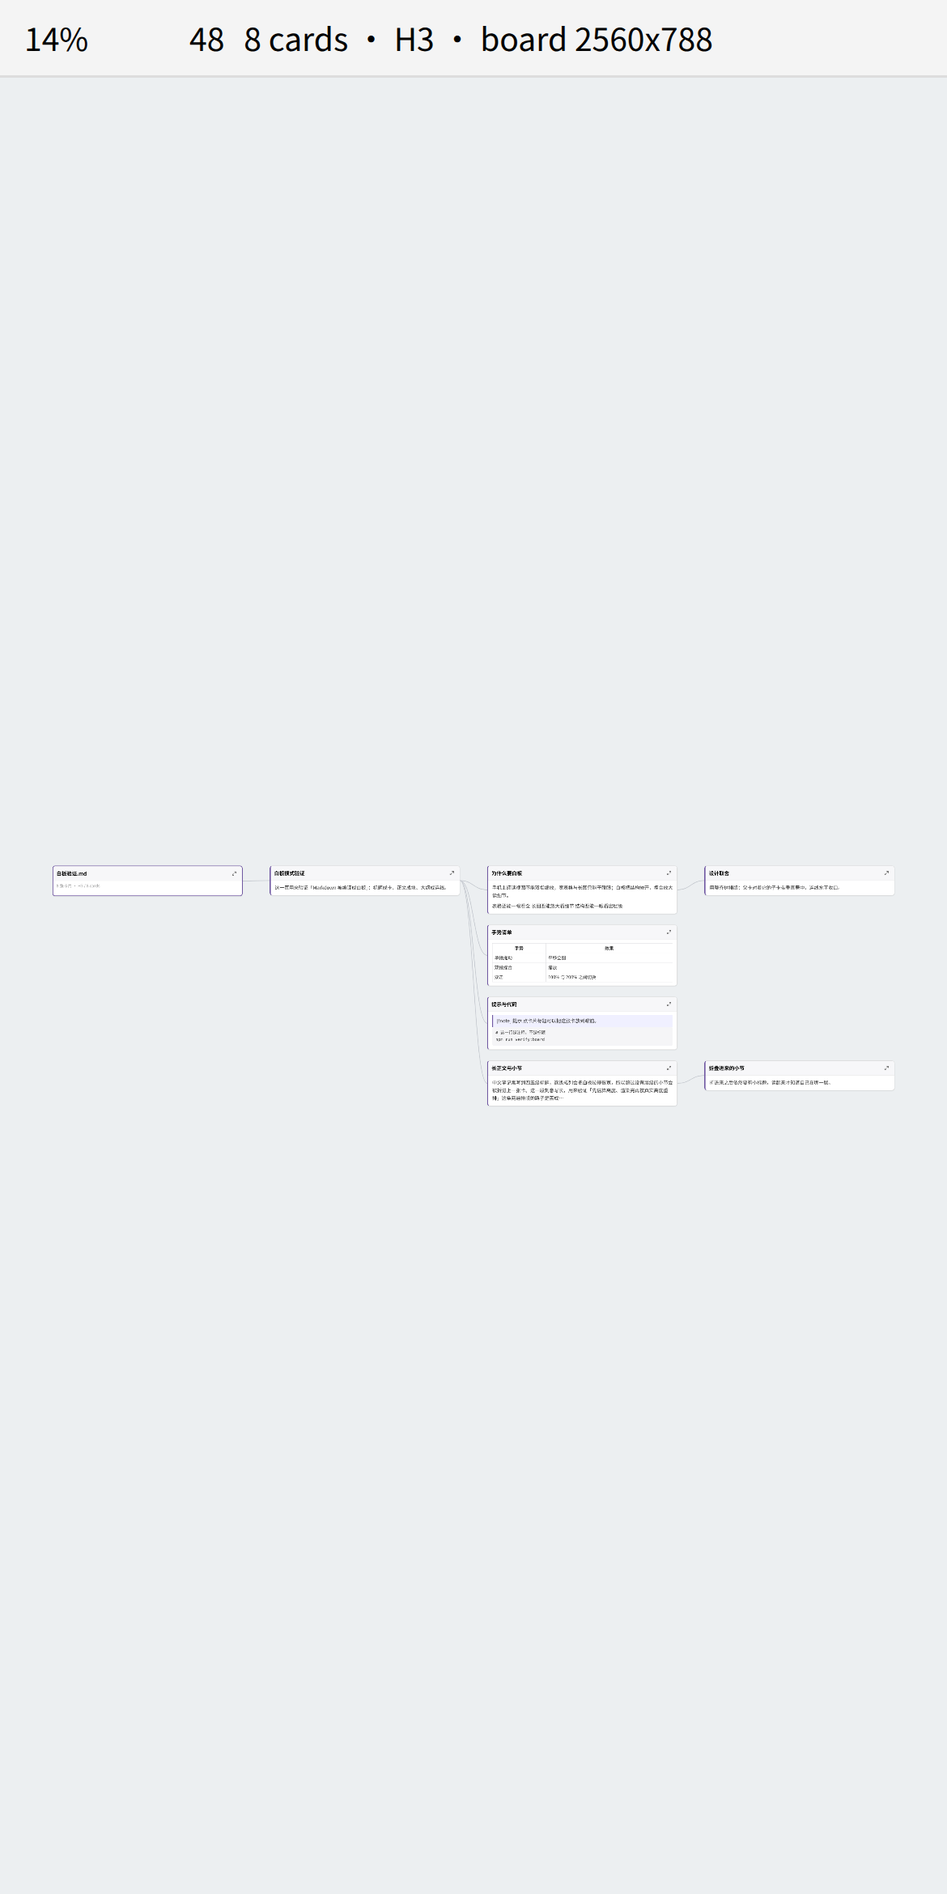
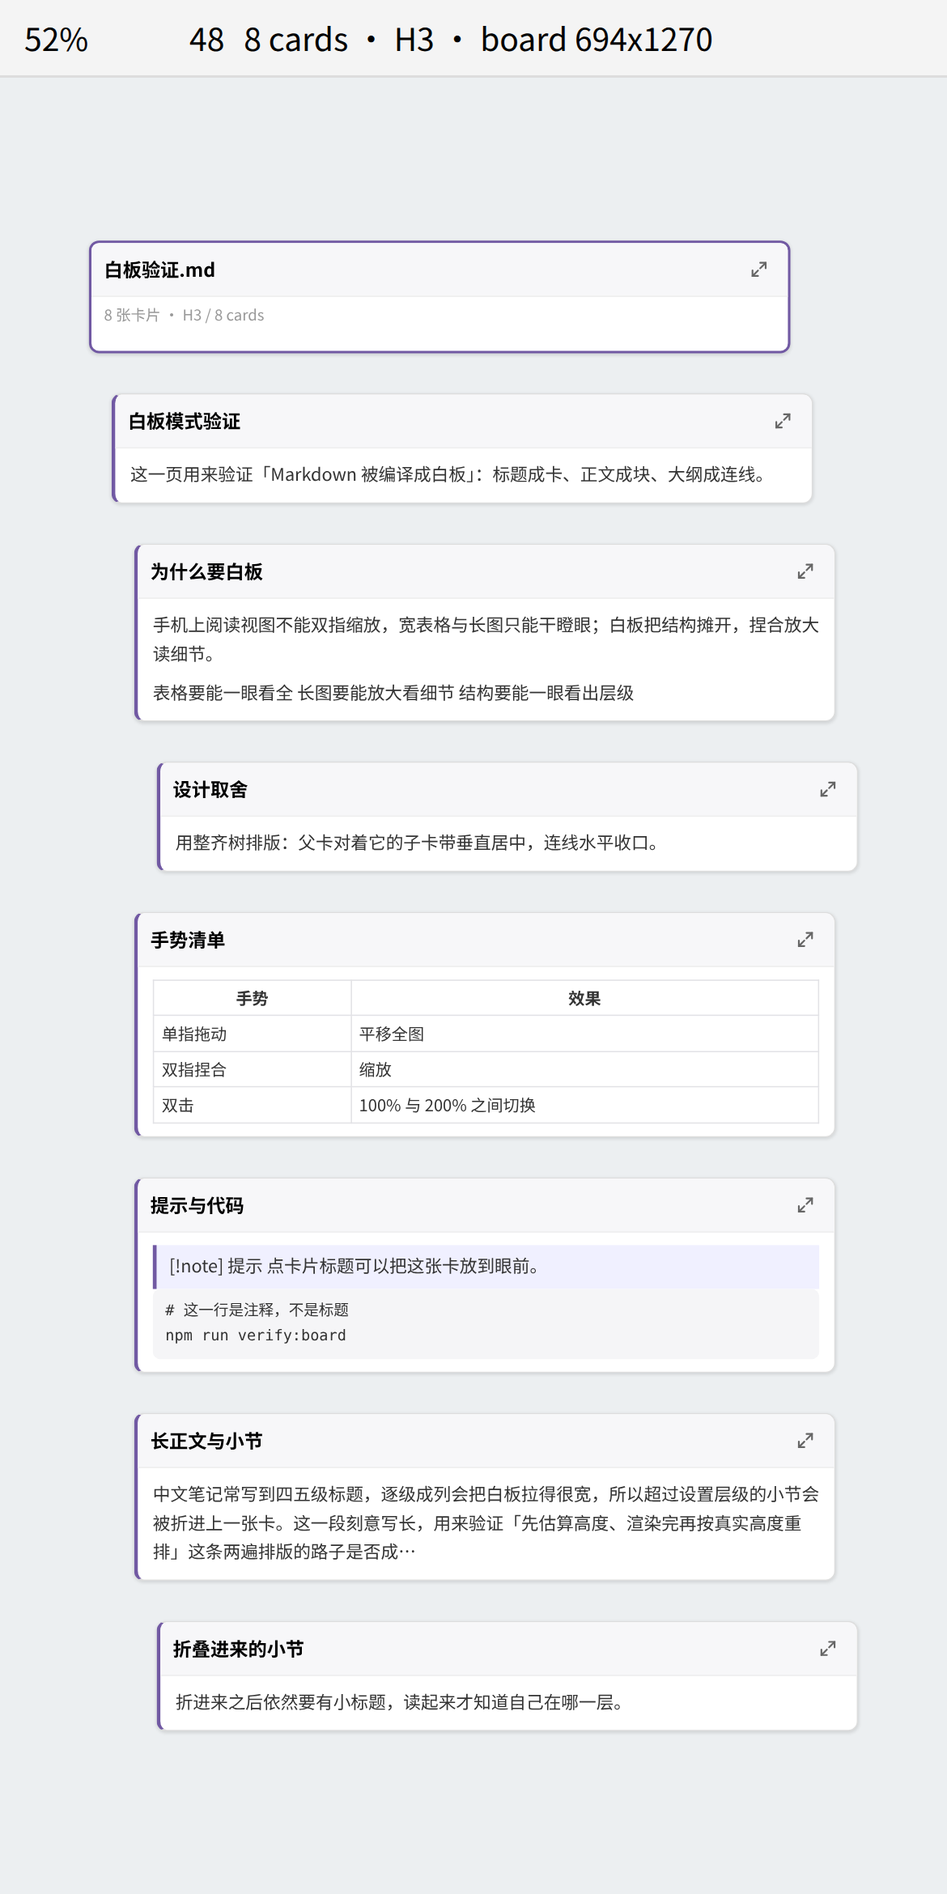
1.3.3：白板两种排版，默认「单栏纵向流」——往下滑就是往下读
用户反馈：「为啥不是一个白板上下滑动的呢？为啥做成卡片呀？就类似于阅读的时候，直接往下滑动就好了。」

- 新增「白板排版」设置（默认 flow）：
  · 单栏纵向流：一张 A5 宽（148mm）的纸一列到底，按文档顺序自上而下叠；
    层级用最多 3 级缩进 + 卡片左侧色条表达；往下滑就是往下读，不用横着找内容。
  · 分支树：原来的标题成列成卡 + 连线大纲，留着给「一眼看全局」。
- 工具条加排版一键切换按钮；连线只在分支树里画（一列里画线只会互相压住）。
- 排版层新增 layoutBoardFlow / layoutBoardByMode（纯函数，可单测）。

验证：98 单测 / verify:board 48 / verify:gestures 74 / verify:labels 9 / verify:layout 全过，
npm run check 退出码 0。verify:board 新增：出厂默认排版确为 flow（读真实设置数据）、
同一纸张宽度且 y 随文档顺序严格递增、纵向流 0 条连线、
**只往下滑就能读到最后一节**（末卡进入视口）、切到分支树连线断言全开、切回即消失。

diff --git a/src/settings-spec.ts b/src/settings-spec.ts
@@ -12,6 +12,8 @@
  * ========================================================================== */
 
 export type ReaderMode = "page" | "board";
+/** 白板排版：flow = 单栏纵向流（一张 A5 纸，上下滑着读）；tree = 分支树（横着看全局）。 */
+export type BoardLayoutMode = "flow" | "tree";
 export type ZoomButtonCorner = "top-left" | "top-right";
 
 export interface ZoomableReaderSettings {
@@ -44,6 +46,8 @@ export interface ZoomableReaderSettings {
   boardConnectors: boolean;
   /** 卡片数量上限：超过就自动折得更深，保证手机上不卡 */
   boardMaxCards: number;
+  /** 白板排版：单栏纵向流（默认）还是分支树 */
+  boardLayout: BoardLayoutMode;
 
   /* --- 图片与图表查看器 / Image & diagram viewer --- */
   imageViewer: boolean;
@@ -105,6 +109,8 @@ export const DEFAULT_SETTINGS: ZoomableReaderSettings = {
   boardGap: 32,
   boardConnectors: true,
   boardMaxCards: 120,
+  /* 默认单栏纵向流：白板是拿来【读】的 —— 往下滑就是往下读，不用横着找内容（手机尤其需要）。 */
+  boardLayout: "flow",
   imageViewer: true,
   diagramViewer: true,
   lightboxFitOnOpen: true,
@@ -156,7 +162,7 @@ export interface SettingSliderSpec extends SettingSpecBase {
 
 export interface SettingDropdownSpec extends SettingSpecBase {
   control: "dropdown";
-  key: "defaultMode" | "zoomButtonCorner";
+  key: "defaultMode" | "zoomButtonCorner" | "boardLayout";
   options: Record<string, string>;
 }
 
@@ -309,6 +315,20 @@ export const SETTINGS_GROUPS: SettingsGroupSpec[] = [
     enIntro: "Whiteboard compiles a note into a card canvas: every heading is a card holding that section's content, and connectors draw the outline. Cards default to A5 paper (148mm) and open at natural size; the board is recompiled every time you enter it and follows the note as you edit (read-only, nothing is written).",
     items: [
       {
+        control: "dropdown",
+        id: "board-layout",
+        key: "boardLayout",
+        options: {
+          flow: "单栏纵向流（上下滑动读）/ Single column (scroll down)",
+          tree: "分支树（横向看全局）/ Branch tree (explore sideways)",
+        },
+        zh: "白板排版",
+        en: "Board layout",
+        zhDesc: "单栏纵向流：一张 A5 纸从上往下读，往下滑就是往下读（默认，手机推荐）。分支树：标题成列成卡、连线成大纲，一眼看全局但要横向找内容。",
+        enDesc: "Single column reads top to bottom like paper (default, best on a phone). Branch tree lays headings out in columns with connectors, showing the whole outline at a glance but requiring sideways panning.",
+        aliases: ["排版", "布局", "纵向", "单栏", "滑动", "滚动", "树", "layout", "column", "scroll", "vertical", "tree", "flow"],
+      },
+      {
         control: "slider",
         id: "board-card-width",
         key: "boardCardWidth",
@@ -356,8 +376,8 @@ export const SETTINGS_GROUPS: SettingsGroupSpec[] = [
         key: "boardConnectors",
         zh: "显示连线",
         en: "Show connectors",
-        zhDesc: "画出父卡到子卡的贝塞尔连线，一眼看出大纲结构。",
-        enDesc: "Draws curved connectors from a parent card to its children.",
+        zhDesc: "分支树排版下画出父卡到子卡的连线（单栏纵向流靠缩进与左侧色条表达层级，不画线）。",
+        enDesc: "In branch-tree layout, draws curved connectors from a parent card to its children. The single-column layout shows hierarchy with indentation instead.",
         aliases: ["连线", "连接", "线", "connector", "edge", "line"],
       },
       {

diff --git a/tests/board-layout.test.ts b/tests/board-layout.test.ts
@@ -2,9 +2,13 @@ import { describe, expect, it } from "vitest";
 import { parseBoard } from "../src/board-model";
 import {
   DEFAULT_BOARD_LAYOUT,
+  FLOW_INDENT_STEP,
+  FLOW_MAX_INDENT_DEPTH,
   cardAt,
   estimateCardHeight,
   layoutBoard,
+  layoutBoardByMode,
+  layoutBoardFlow,
   linkPath,
   type BoardCard,
 } from "../src/board-layout";
@@ -157,5 +161,67 @@ describe("linkPath / cardAt", () => {
     const card = layout.byId["n2"];
     expect(cardAt(layout, card.x + 5, card.y + 5)?.id).toBe("n2");
     expect(cardAt(layout, card.x - 20, card.y - 20)).toBeNull();
+  });
+});
+describe("layoutBoardFlow：单栏纵向流（一张 A5 纸，往下滑就是往下读）", () => {
+  const layout = layoutBoardFlow(doc, { cardWidth: 560, gapY: 32, padding: 40 });
+
+  it("所有卡片同宽（就是纸张宽度），一列到底", () => {
+    for (const card of layout.cards) expect(card.width).toBe(560);
+  });
+
+  it("y 随【文档顺序】严格递增：往下滑就是往下读", () => {
+    for (let i = 1; i < layout.cards.length; i += 1) {
+      const prev = layout.cards[i - 1];
+      expect(layout.cards[i].y).toBeGreaterThanOrEqual(prev.y + prev.height);
+    }
+    /* 顺序也必须与模型的前序（= 文档顺序）一致 */
+    expect(layout.cards.map((c) => c.id)).toEqual(doc.nodes.map((n) => n.id));
+  });
+
+  it("层级用缩进表达，且缩进到第 3 级就封顶（纸再窄就不是纸了）", () => {
+    for (const card of doc.nodes) {
+      const rect = layout.byId[card.id];
+      expect(rect.x).toBe(40 + Math.min(card.depth, FLOW_MAX_INDENT_DEPTH) * FLOW_INDENT_STEP);
+    }
+    const deep = layout.cards.filter((c) => c.depth >= FLOW_MAX_INDENT_DEPTH).map((c) => c.x);
+    expect(new Set(deep).size).toBe(1);
+  });
+
+  it("一列里不画连线（靠缩进与左侧色条表达层级，画线只会互相压住）", () => {
+    expect(layout.links).toHaveLength(0);
+  });
+
+  it("卡片两两不重叠，且板子边界包住全部卡片", () => {
+    for (let i = 0; i < layout.cards.length; i += 1) {
+      for (let j = i + 1; j < layout.cards.length; j += 1) {
+        expect(overlaps(layout.cards[i], layout.cards[j])).toBe(false);
+      }
+      expect(layout.cards[i].x + layout.cards[i].width).toBeLessThanOrEqual(layout.width);
+      expect(layout.cards[i].y + layout.cards[i].height).toBeLessThanOrEqual(layout.height);
+    }
+  });
+
+  it("宽度 = 留白×2 + 最大缩进 + 纸张宽度（不会随内容横着长）", () => {
+    const maxIndent = Math.min(3, FLOW_MAX_INDENT_DEPTH) * FLOW_INDENT_STEP;
+    expect(layout.width).toBe(40 * 2 + maxIndent + 560);
+  });
+
+  it("实测高度优先（第二遍按真实 DOM 高度重排）", () => {
+    const tall = layoutBoardFlow(doc, { heights: { n1: 900 } });
+    expect(tall.byId["n1"].height).toBe(900);
+    expect(tall.height).toBeGreaterThan(layout.height);
+  });
+
+  it("空文档（只有根卡）也能排，不出现 NaN", () => {
+    const empty = layoutBoardFlow(parseBoard("", { title: "空" }), {});
+    expect(empty.cards).toHaveLength(1);
+    expect(Number.isFinite(empty.width)).toBe(true);
+    expect(Number.isFinite(empty.height)).toBe(true);
+  });
+
+  it("layoutBoardByMode 分发正确（默认流的入口）", () => {
+    expect(layoutBoardByMode(doc, "flow", { cardWidth: 560 }).links).toHaveLength(0);
+    expect(layoutBoardByMode(doc, "tree", { cardWidth: 560 }).links.length).toBeGreaterThan(0);
   });
 });

diff --git a/src/board-layout.ts b/src/board-layout.ts
@@ -63,6 +63,13 @@ export const DEFAULT_BOARD_LAYOUT: Omit<BoardLayoutOptions, "heights"> = {
   padding: 40,
 };
 
+/** 纵向流里每深一级缩进多少（px）。缩进到第 3 级就不再往里缩了：A5 纸再窄就不是纸了。 */
+export const FLOW_INDENT_STEP = 18;
+export const FLOW_MAX_INDENT_DEPTH = 3;
+
+/** 白板的两种排版：单栏纵向流（读文档）/ 分支树（看全局）。 */
+export type BoardLayoutMode = "flow" | "tree";
+
 /** 估高参数：只求「八九不离十」，真实高度由渲染后的第二遍量出来。 */
 const METRICS = {
   /** 卡片头部（标题 + 上下内边距） */
@@ -219,6 +226,59 @@ export function layoutBoard(doc: BoardDoc, options: Partial<BoardLayoutOptions> 
 
 function round1(value: number): number {
   return Math.round(value * 10) / 10;
+}
+
+/**
+ * 单栏纵向流：一张 A5 宽的纸，按【文档顺序】自上而下叠成一列。
+ *
+ * 这是给「读」用的排版：往下滑就是往下读，不需要横向找内容（手机尤其需要）。
+ * 层级用缩进 + 卡片左侧色条表达，所以这里不画连线 —— 一行一列里画线只会互相压住。
+ * 原文档顺序就是 doc.nodes 的顺序（前序遍历），所以 y 一定随文档单调递增。
+ */
+export function layoutBoardFlow(doc: BoardDoc, options: Partial<BoardLayoutOptions> = {}): BoardLayout {
+  const opts: BoardLayoutOptions = Object.assign({}, DEFAULT_BOARD_LAYOUT, options);
+  const cardWidth = Math.max(160, opts.cardWidth);
+
+  const cards: BoardCard[] = [];
+  const byId: Record<string, BoardCard> = {};
+  let y = opts.padding;
+  let indentMax = 0;
+
+  for (const node of doc.nodes) {
+    const measured = opts.heights ? opts.heights[node.id] : undefined;
+    const height = typeof measured === "number" && measured > 0 ? measured : estimateCardHeight(node, cardWidth);
+    const level = Math.min(node.depth, FLOW_MAX_INDENT_DEPTH);
+    const indent = level * FLOW_INDENT_STEP;
+    indentMax = Math.max(indentMax, indent);
+    const card: BoardCard = {
+      id: node.id,
+      x: opts.padding + indent,
+      y: Math.round(y),
+      width: cardWidth,
+      height: height,
+      depth: node.depth,
+    };
+    cards.push(card);
+    byId[node.id] = card;
+    y += height + opts.gapY;
+  }
+
+  return {
+    cards: cards,
+    links: [],
+    byId: byId,
+    width: opts.padding * 2 + indentMax + cardWidth,
+    height: Math.max(opts.padding * 2, y - opts.gapY + opts.padding),
+  };
+}
+
+/** 按排版模式分发（视图与验证台共用同一份判断）。 */
+export function layoutBoardByMode(
+  doc: BoardDoc,
+  mode: BoardLayoutMode,
+  options: Partial<BoardLayoutOptions> = {}
+): BoardLayout {
+  return mode === "flow" ? layoutBoardFlow(doc, options) : layoutBoard(doc, options);
 }
 
 /** 连线的 SVG 路径：两端各留一半水平距离做控制点，读起来像「分支」而不是直线斜插。 */

diff --git a/src/view.ts b/src/view.ts
@@ -2,6 +2,7 @@ import { Component, ItemView, MarkdownView, MarkdownRenderer, Notice, TFile, Wor
 import type ZoomableReaderPlugin from "../main";
 import { foldToFit, parseBoard, type BoardDoc } from "./board-model";
 import { DEFAULT_BOARD_LAYOUT } from "./board-layout";
+import type { BoardLayoutMode } from "./board-layout";
 import { applyModeClasses, cardIdFromClick, renderBoardInto, type BoardRenderResult } from "./board-render";
 import type { ReaderMode } from "./settings-spec";
 import { BOARD_MIN_SCALE, ZOOM_STEP, ZoomPanLayer, formatPercent, type Transform } from "./zoom-pan";
@@ -118,6 +119,20 @@ export class ZoomableReaderView extends ItemView {
         this.makeButton(bar, "scan", "回到全图 / Fit the whole board", () => this.fitBoard());
         this.makeButton(bar, "focus", "回到标题卡 / Back to the title card", () => this.focusRoot());
         this.makeButton(bar, "refresh-cw", "重新编译 / Recompile now", () => void this.recompile());
+        /* 排版一键切换：纵向流（上下滑着读）⇄ 分支树（横向看全局） */
+        this.makeButton(
+          bar,
+          this.plugin.settings.boardLayout === "flow" ? "list" : "git-branch",
+          this.plugin.settings.boardLayout === "flow"
+            ? "现在是单栏纵向流：点一下换成分支树 / single column - switch to branch tree"
+            : "现在是分支树：点一下换成单栏纵向流 / branch tree - switch to single column",
+          () => {
+            const next: BoardLayoutMode = this.plugin.settings.boardLayout === "flow" ? "tree" : "flow";
+            this.plugin.settings.boardLayout = next;
+            void this.plugin.saveSettings();
+            void this.recompile();
+          }
+        );
       } else {
         this.makeButton(bar, "move-horizontal", "适配宽度 / Fit width", () => {
           if (this.layer) this.layer.fitWidth(this.plugin.settings.padding);
@@ -417,6 +432,7 @@ export class ZoomableReaderView extends ItemView {
     let rendered: BoardRenderResult;
     try {
       rendered = await renderBoardInto(fitted.doc, host, {
+        layout: this.plugin.settings.boardLayout,
         cardWidth: this.plugin.settings.boardCardWidth,
         gapX: Math.round(gap * 2.5),
         gapY: gap,

diff --git a/tests/browser/board.html b/tests/browser/board.html
@@ -115,9 +115,10 @@ var host = document.getElementById("host");
 var label = document.getElementById("label");
 
 var settings = {
-  /* 卡片宽度直接取插件的出厂默认（A5 = 148mm ≈ 560px）——
+  /* 卡片宽度与排版都直接取插件的出厂默认（A5 = 148mm ≈ 560px；排版 = 单栏纵向流）——
    * 验证器就不用把数字抄一遍，默认值改了两边一起动。 */
   cardWidth: window.ZoomableReaderDefaults.boardCardWidth,
+  layout: window.ZoomableReaderDefaults.boardLayout,
   gap: 32,
   padding: 40,
   connectors: true,
@@ -207,6 +208,7 @@ async function rerender() {
   model = fitted;
   var gap = settings.gap;
   board = await window.BoardRender.render(fitted.doc, host, {
+    layout: settings.layout,
     cardWidth: settings.cardWidth,
     gapX: Math.round(gap * 2.5),
     gapY: gap,
@@ -315,6 +317,8 @@ function visibleCards() {
     setPinch: function (on) { settings.pinch = !!on; buildLayer(); },
     setModeClasses: function (mode) { window.BoardRender.applyModeClasses(rootEl, mode); },
     cardWidth: function () { return settings.cardWidth; },
+    layoutMode: function () { return settings.layout; },
+    setLayout: async function (mode) { settings.layout = mode; var t = layer.transform; await rerender(); layer.setTransform(t, false); },
     modeClasses: function () { return rootEl.className; },
     renderFileMode: renderFileMode,
     renderWithoutModeClasses: renderWithoutModeClasses,
@@ -326,6 +330,7 @@ function visibleCards() {
         scale: layer.transform.scale,
         cards: board.layout.cards.length,
         links: board.layout.links.length,
+        layout: settings.layout,
         width: board.layout.width,
         height: board.layout.height,
         commits: commits,

diff --git a/src/board-render.ts b/src/board-render.ts
@@ -16,7 +16,7 @@
  * ========================================================================== */
 
 import type { BoardDoc, BoardNode } from "./board-model";
-import { layoutBoard, linkPath, type BoardLayout, type BoardLayoutOptions } from "./board-layout";
+import { layoutBoardByMode, linkPath, type BoardLayout, type BoardLayoutMode, type BoardLayoutOptions } from "./board-layout";
 
 export const BOARD_CLASS = "zr-board";
 export const BOARD_LINKS_CLASS = "zr-board-links";
@@ -47,7 +47,9 @@ export function applyModeClasses(root: HTMLElement, mode: "page" | "board"): voi
 }
 
 export interface BoardRenderOptions extends Partial<Omit<BoardLayoutOptions, "heights">> {
-  /** 是否画父子连线 */
+  /** 排版：单栏纵向流（默认，读文档）或分支树（看全局） */
+  layout?: BoardLayoutMode;
+  /** 是否画父子连线（只对分支树有意义；纵向流靠缩进表达层级） */
   connectors: boolean;
   /** 根卡片标题下的一行元信息（双语由调用方决定） */
   meta?: string;
@@ -178,7 +180,7 @@ export async function renderBoardInto(
     const height = card.offsetHeight;
     if (height > 0) heights[id] = height;
   }
-  const layout = layoutBoard(doc, Object.assign({}, layoutOptions, { heights: heights }));
+  const layout = layoutBoardByMode(doc, options.layout || "flow", Object.assign({}, layoutOptions, { heights: heights }));
 
   for (const [id, card] of cards) {
     const rect = layout.byId[id];

diff --git a/README.md b/README.md
@@ -13,9 +13,9 @@ wheel on desktop, drag to pan.
 
 ## 中文速览
 
-- **白板模式**：把一篇 Markdown 编译成白板 —— 每个标题一张卡（**默认 A5 纸大小，148mm**），
-  卡里是这一节的正文，卡片之间连出大纲。打开即**原大**（不再缩成一小块），手机上一眼看到结构，
-  捏合放大读细节，点卡片标题把这张卡放到眼前。**每次进白板都重新编译一遍**，笔记改了白板跟着变
+- **白板模式**：把一篇 Markdown 编译成一张 **A5 纸（148mm）宽的单栏**，**往下滑就是往下读**
+  （默认「单栏纵向流」；标题成节、缩进表达层级、打开即原大）。想要「横着看全局」就在设置里换成
+  **分支树**：标题成列成卡、连线成大纲。**每次进白板都重新编译一遍**，笔记改了白板跟着变
   （只读，不落盘）。设置 → **白板模式 → 打开笔记时的默认模式 → 白板**，之后就默认进白板。
 - **双指捏合在哪**：设置页第一组就是 **手势与缩放 → 双指捏合缩放**（还有一张「手势速查」表）。
   手机上要能缩放，必须用**本插件的视图**打开笔记（侧边栏放大镜图标、命令面板，或文件列表长按
@@ -68,7 +68,10 @@ Notes:
 
 ![The same note as a whiteboard: heading cards, content blocks, connectors](docs/images/screenshot-board-desktop.png)
 
-This is not "the note floating on a board" — the Markdown itself is compiled:
+Two layouts, one compiler. The default is **single column**: one A5-wide sheet per section, stacked
+in document order — scrolling down *is* reading down, with indentation for hierarchy. Switch to
+**branch tree** when you want the whole outline sideways. This is not "the note floating on a board"
+— the Markdown itself is compiled:
 
 - **Every heading becomes a card**, holding that section's content. Frontmatter is skipped (it is
   metadata, not the note). Code fences, tables, callouts, quotes, math, images and Mermaid blocks
@@ -130,10 +133,11 @@ Obsidian 1.13+ **settings search** — typing 双指 or pinch jumps straight to 
 | 打开笔记时的默认模式 / Default mode | 版面 page | 版面 page or 白板 whiteboard |
 | 显示工具条 / Show toolbar | on | Zoom buttons, zoom level, mode switch, fit |
 | 版心四周留白 / Page padding | 16 px | Gap between the note and the edge (page mode) |
+| 白板排版 / Board layout | 单栏纵向流 single column | 单栏纵向流 scroll down to read, or 分支树 branch tree to see the outline sideways |
 | 卡片宽度（纸张大小）/ Card width (paper) | 560 px ≈ A5 | Whiteboard card width; A5 = 148 mm, A4/A6 also easy to pick |
 | 卡片展开层级 / Outline depth | H3 | Headings deeper than this fold into the ancestor card |
 | 卡片间距 / Card spacing | 32 px | Vertical gap; parent-to-child spacing is 2.5x that |
-| 显示连线 / Show connectors | on | Parent-to-child bezier connectors |
+| 显示连线 / Show connectors | on | Parent-to-child bezier connectors (branch-tree layout; the single column shows hierarchy by indentation) |
 | 卡片数量上限 / Card limit | 120 | Above this the board folds deeper automatically |
 | 放大按钮的位置 / Zoom button corner | 左上 | 左上 or 右上 — the top-right belongs to Obsidian's own controls |
 | 放大按钮常驻显示 / Always show the zoom button | on | Off: the button only appears on hover |

diff --git a/CHANGELOG.md b/CHANGELOG.md
@@ -1,5 +1,29 @@
 # Changelog
 
+## 1.3.3
+
+- **Two layouts for the whiteboard, and the default is the one you read.** The board used to be a
+  branch tree only: headings in columns with connectors. On a phone that means hunting for content
+  sideways. The default is now **单栏纵向流 / single column** — one A5-wide sheet per section,
+  stacked in document order, so **scrolling down is reading down**, with indentation (up to three
+  levels) and the left accent bar carrying the hierarchy instead of connectors.
+- **分支树 / branch tree** is still there for the other job: seeing the whole outline at a glance.
+  Pick it in the settings (设置 → 白板模式 → 白板排版) or flip it from the view toolbar; connectors
+  belong to that layout, and the single column draws none (a line inside a one-wide column only
+  overlaps the cards).
+- Why cards at all, if it reads like a document? Because the board is zoomable when Obsidian's
+  reading view is not: each section stays a sheet you can pinch into, tap to bring to the front, and
+  the sections still fold by heading depth and by card limit. It is a page you can zoom, not a
+  scroll that cannot.
+
+Verification: `npm run verify:board` is now **48 assertions**. The new ones assert the shipped
+default layout is `flow` (read from the real settings data, not a number copied into the test),
+that every card shares the paper width with `y` strictly increasing in document order, that a
+single column draws **zero** connectors, and — the behavioural one — that **scrolling down alone
+reaches the last section** (the final card enters the viewport). Switching to branch tree flips the
+connector assertions back on (count = parent/child relations, endpoints on the card edges), and
+switching back drops them again.
+
 ## 1.3.2
 
 - **Cards are paper now: A5 by default (148 mm ≈ 560 px).** The default card width was 320 px, so a
